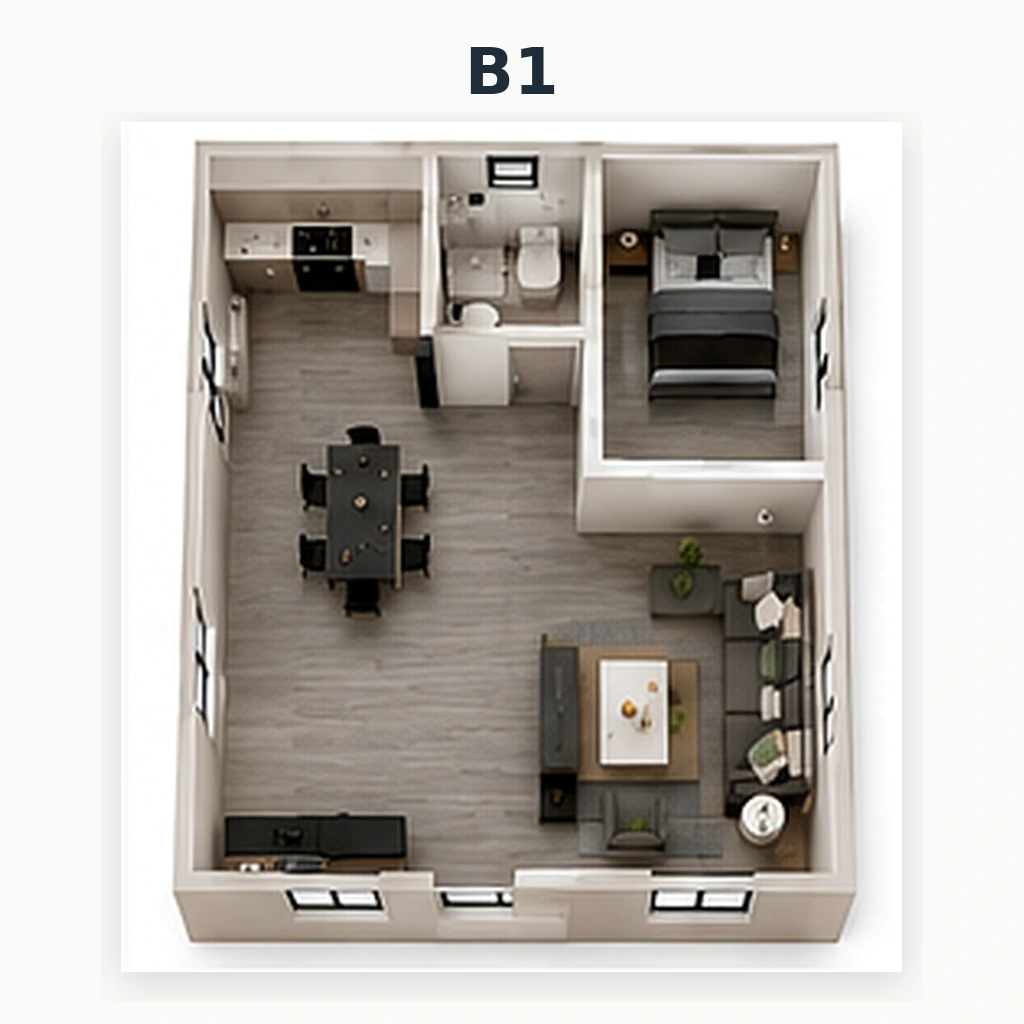
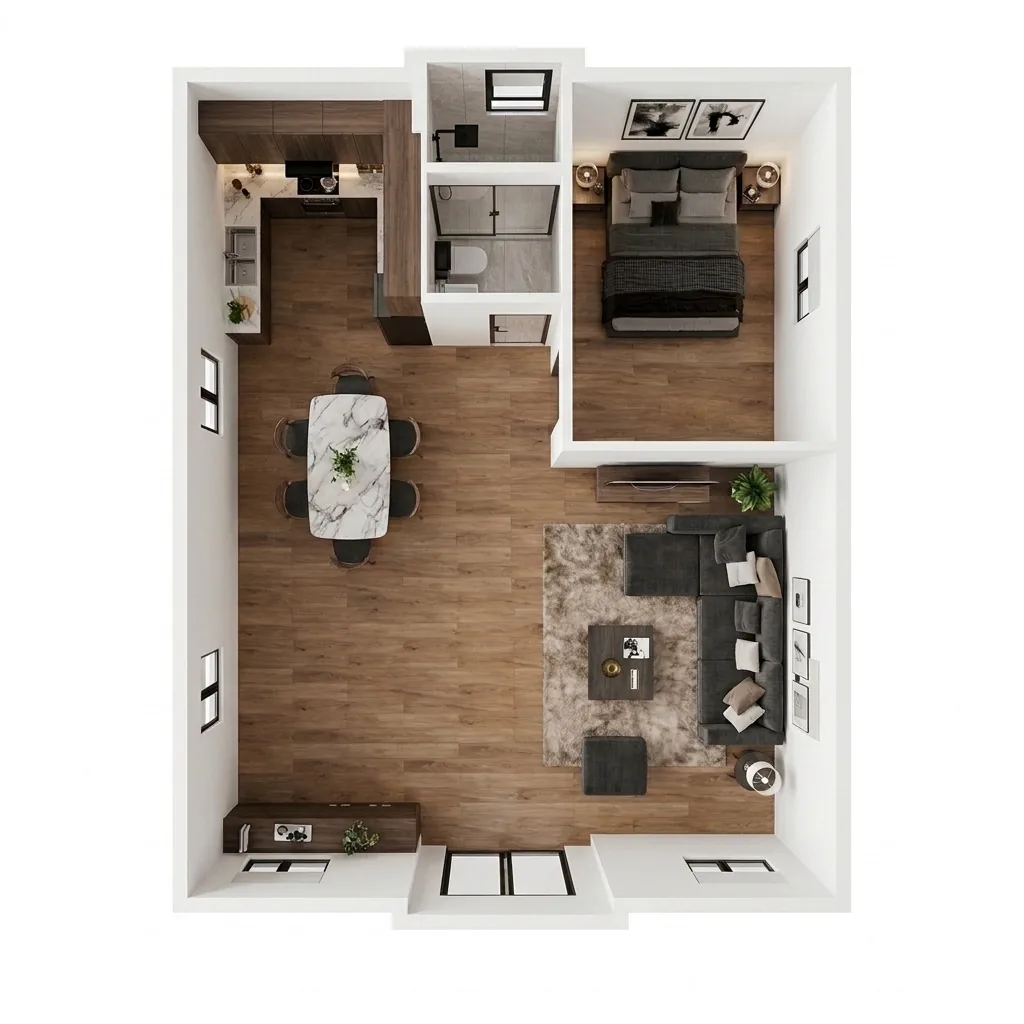
Twelve new furnished renders for the B and C floor plans, one source of truth for both stages
The owner supplied new top-down renders for every model-58 and model-73 layout. Each one
was verified against the plan it replaces before conversion: the baked-in labels match
their file names for B4-B6 and C1-C6, and the three unlabeled ones were identified by
bedroom count against planMeta -- B1 (1 bedroom + living), B2 (2 + living), B3 (3 +
living). Converted at the existing convention: 1024x1024 RGB webp, ~45-90KB each.

The window-placement stage now uses THE SAME renders for B and C plans (owner,
2026-09-05). The old blank-wall canvases existed so pre-drawn windows would not confuse a
buyer placing their own; the owner chose the new artwork for that stage anyway, and the
mechanism was already there -- every call site falls back noWindowImage || image, so
absence IS the feature. planOptions now mints noWindowImage for the A-series only, the
twelve orphaned B/C canvases are deleted, and A1-A6 keep both their artwork and their
blank canvases untouched, as instructed. Also gone: "plan-B6 - Copy.webp", a stray
duplicate sitting in the folder since who knows when.

Worth recording what the old C5 and C6 images were: near-identical three-bedroom renders
that matched neither their own subtitles (4 and 5 bedrooms) nor each other's supposed
difference. The new renders actually differ per plan -- but they show 5 and 6 bedrooms
where the catalog says 4 and 5, which is now an open question for the owner rather than a
[…]

diff --git a/NVC Claude version/src/content/shared/boxConfiguratorCatalog.js b/NVC Claude version/src/content/shared/boxConfiguratorCatalog.js
@@ -279,9 +279,14 @@ export function getBoxConfiguratorCatalog(locale = 'en') {
     label: key,
     subtitle: planMeta[key],
     image: `plan-${key}.webp`,
-    // Blank-wall version of the same plan, used as the canvas when the buyer
-    // clicks to place their own windows (so existing windows don't confuse them).
-    noWindowImage: `plan-${key}-nowindows.webp`,
+    // Blank-wall version of the same plan, used as the canvas when the buyer clicks to
+    // place their own windows (so existing windows don't confuse them). A-SERIES ONLY
+    // since 2026-09-05: the B and C plans got new furnished renders and the owner chose
+    // to use them for the window stage too — every stage falls back to `image` when this
+    // is absent, which is exactly what absent means here. If windows-drawn-on-the-render
+    // proves confusing in practice, the fix is a windowless export of the same renders,
+    // not a revert to the old artwork.
+    noWindowImage: key.startsWith('A') ? `plan-${key}-nowindows.webp` : undefined,
     wallFactor: planWallFactor[key] || 1,
     doorCount: planDoorCount[key] || 0,
   }))
